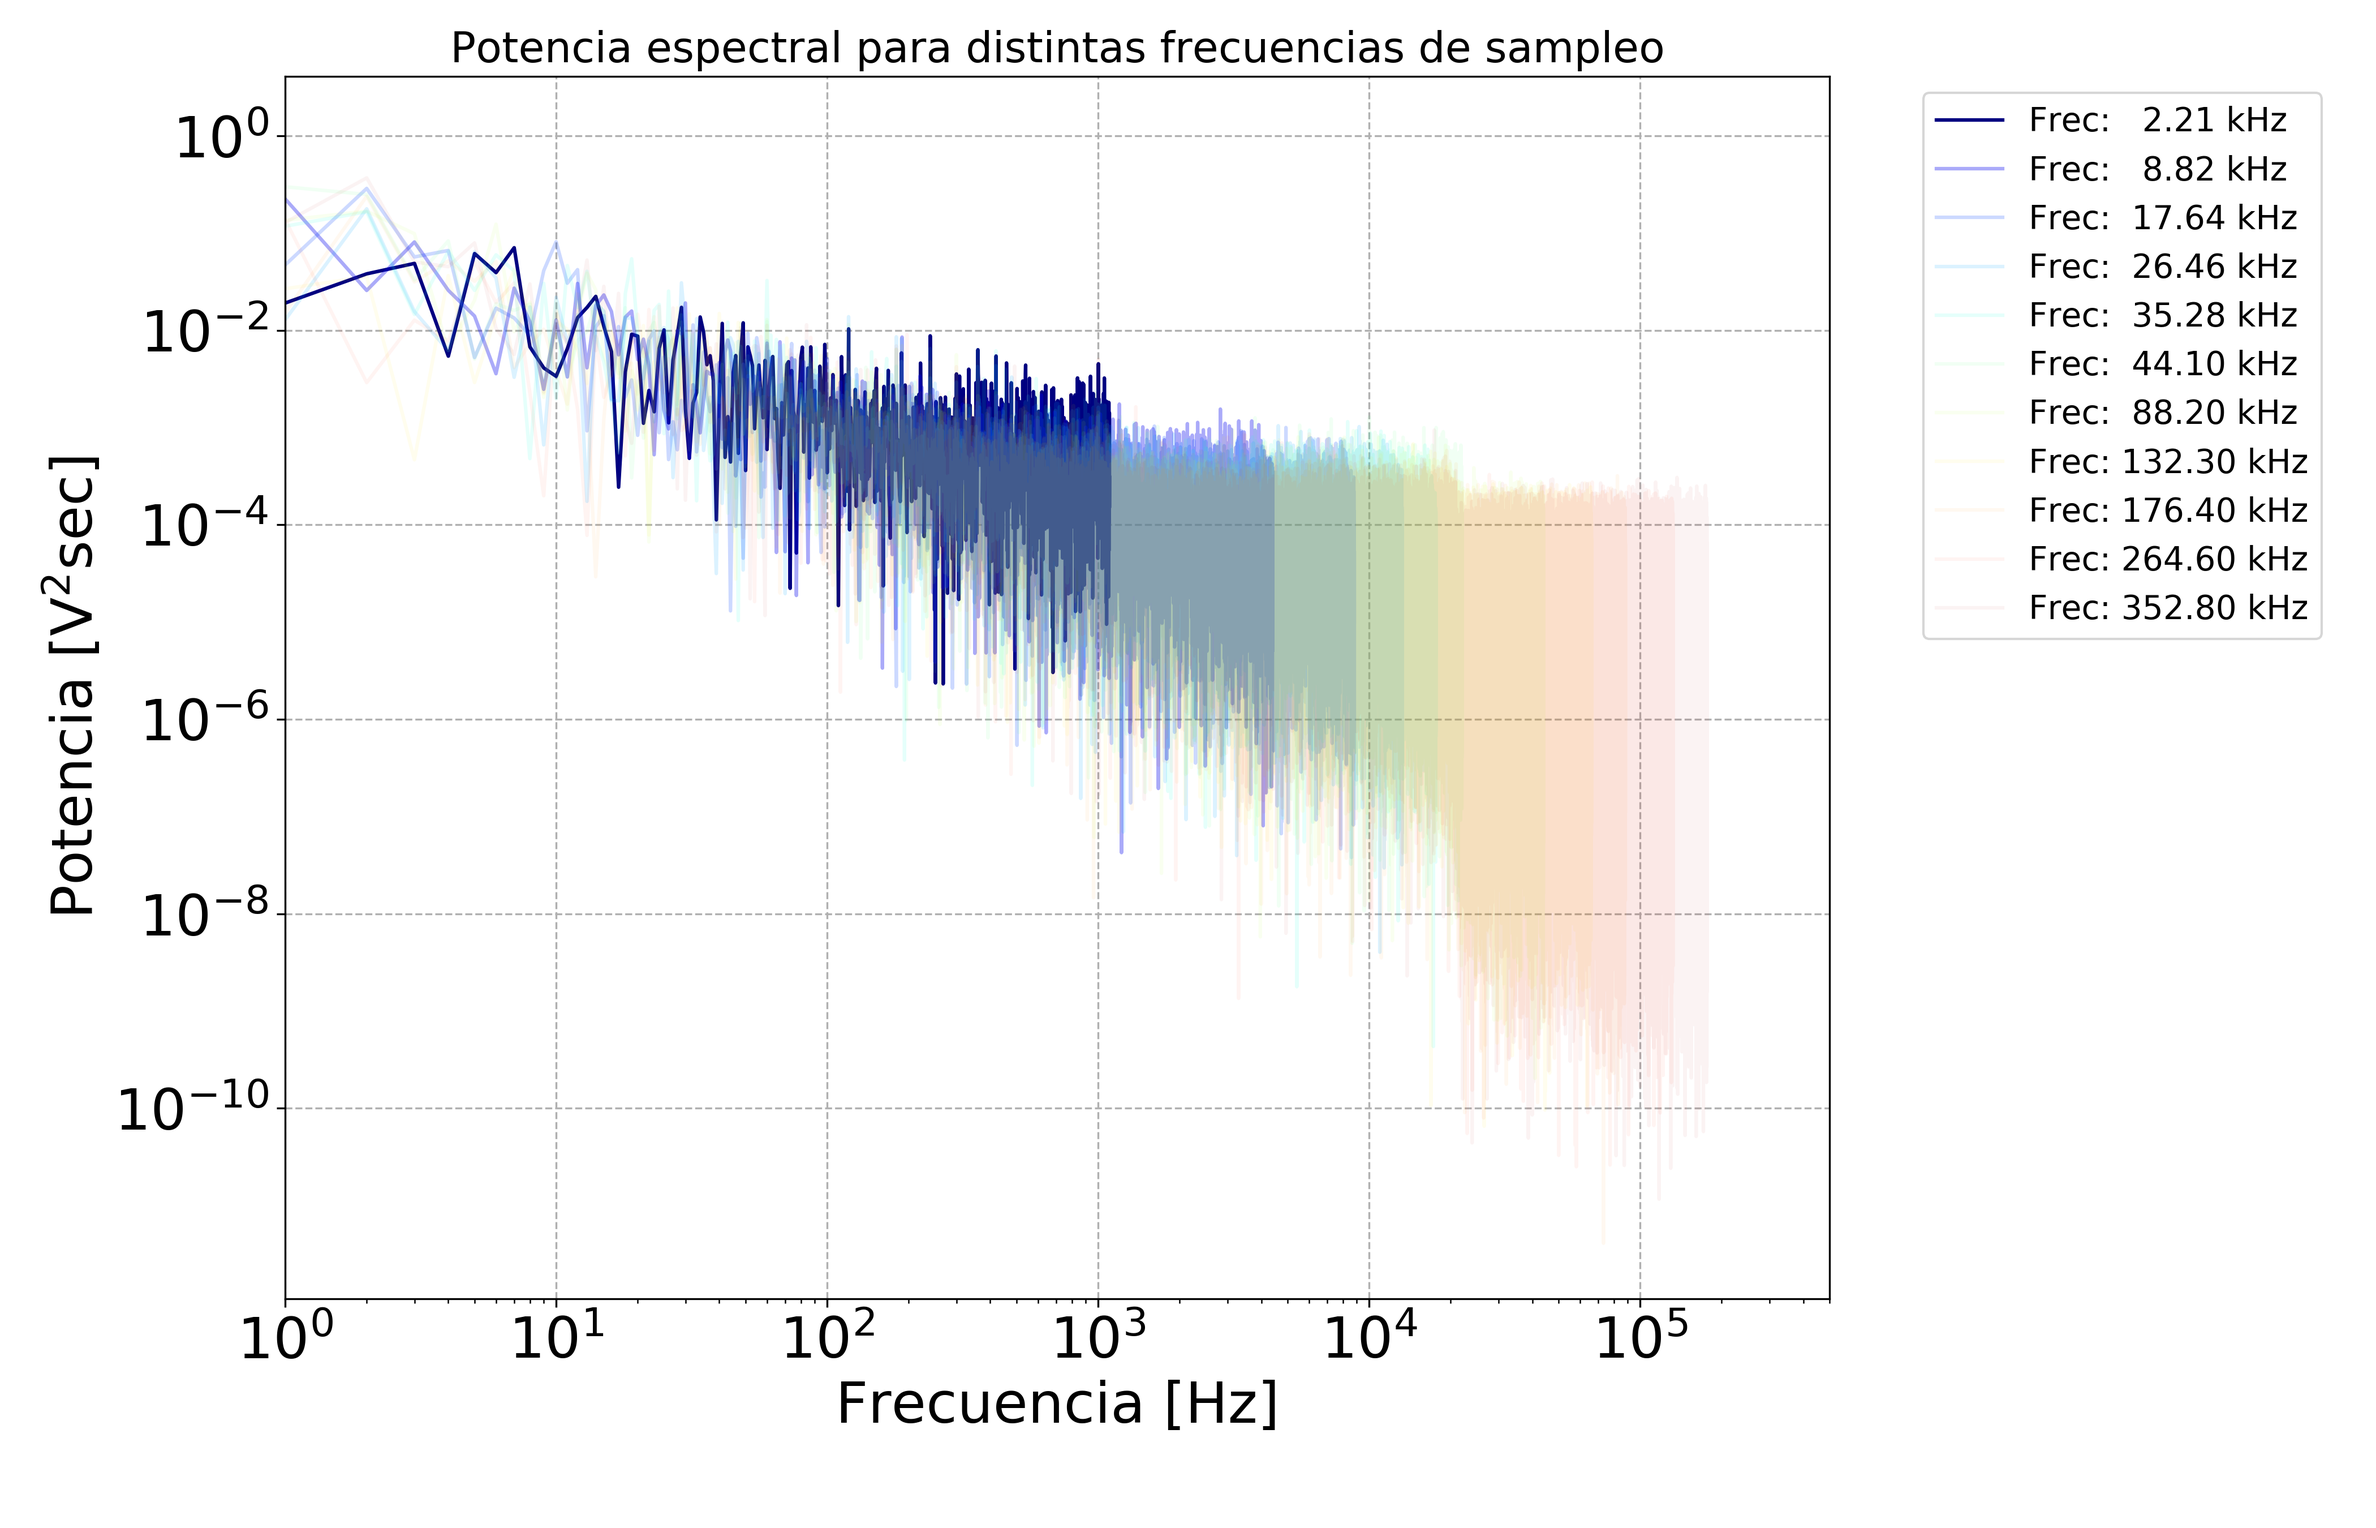
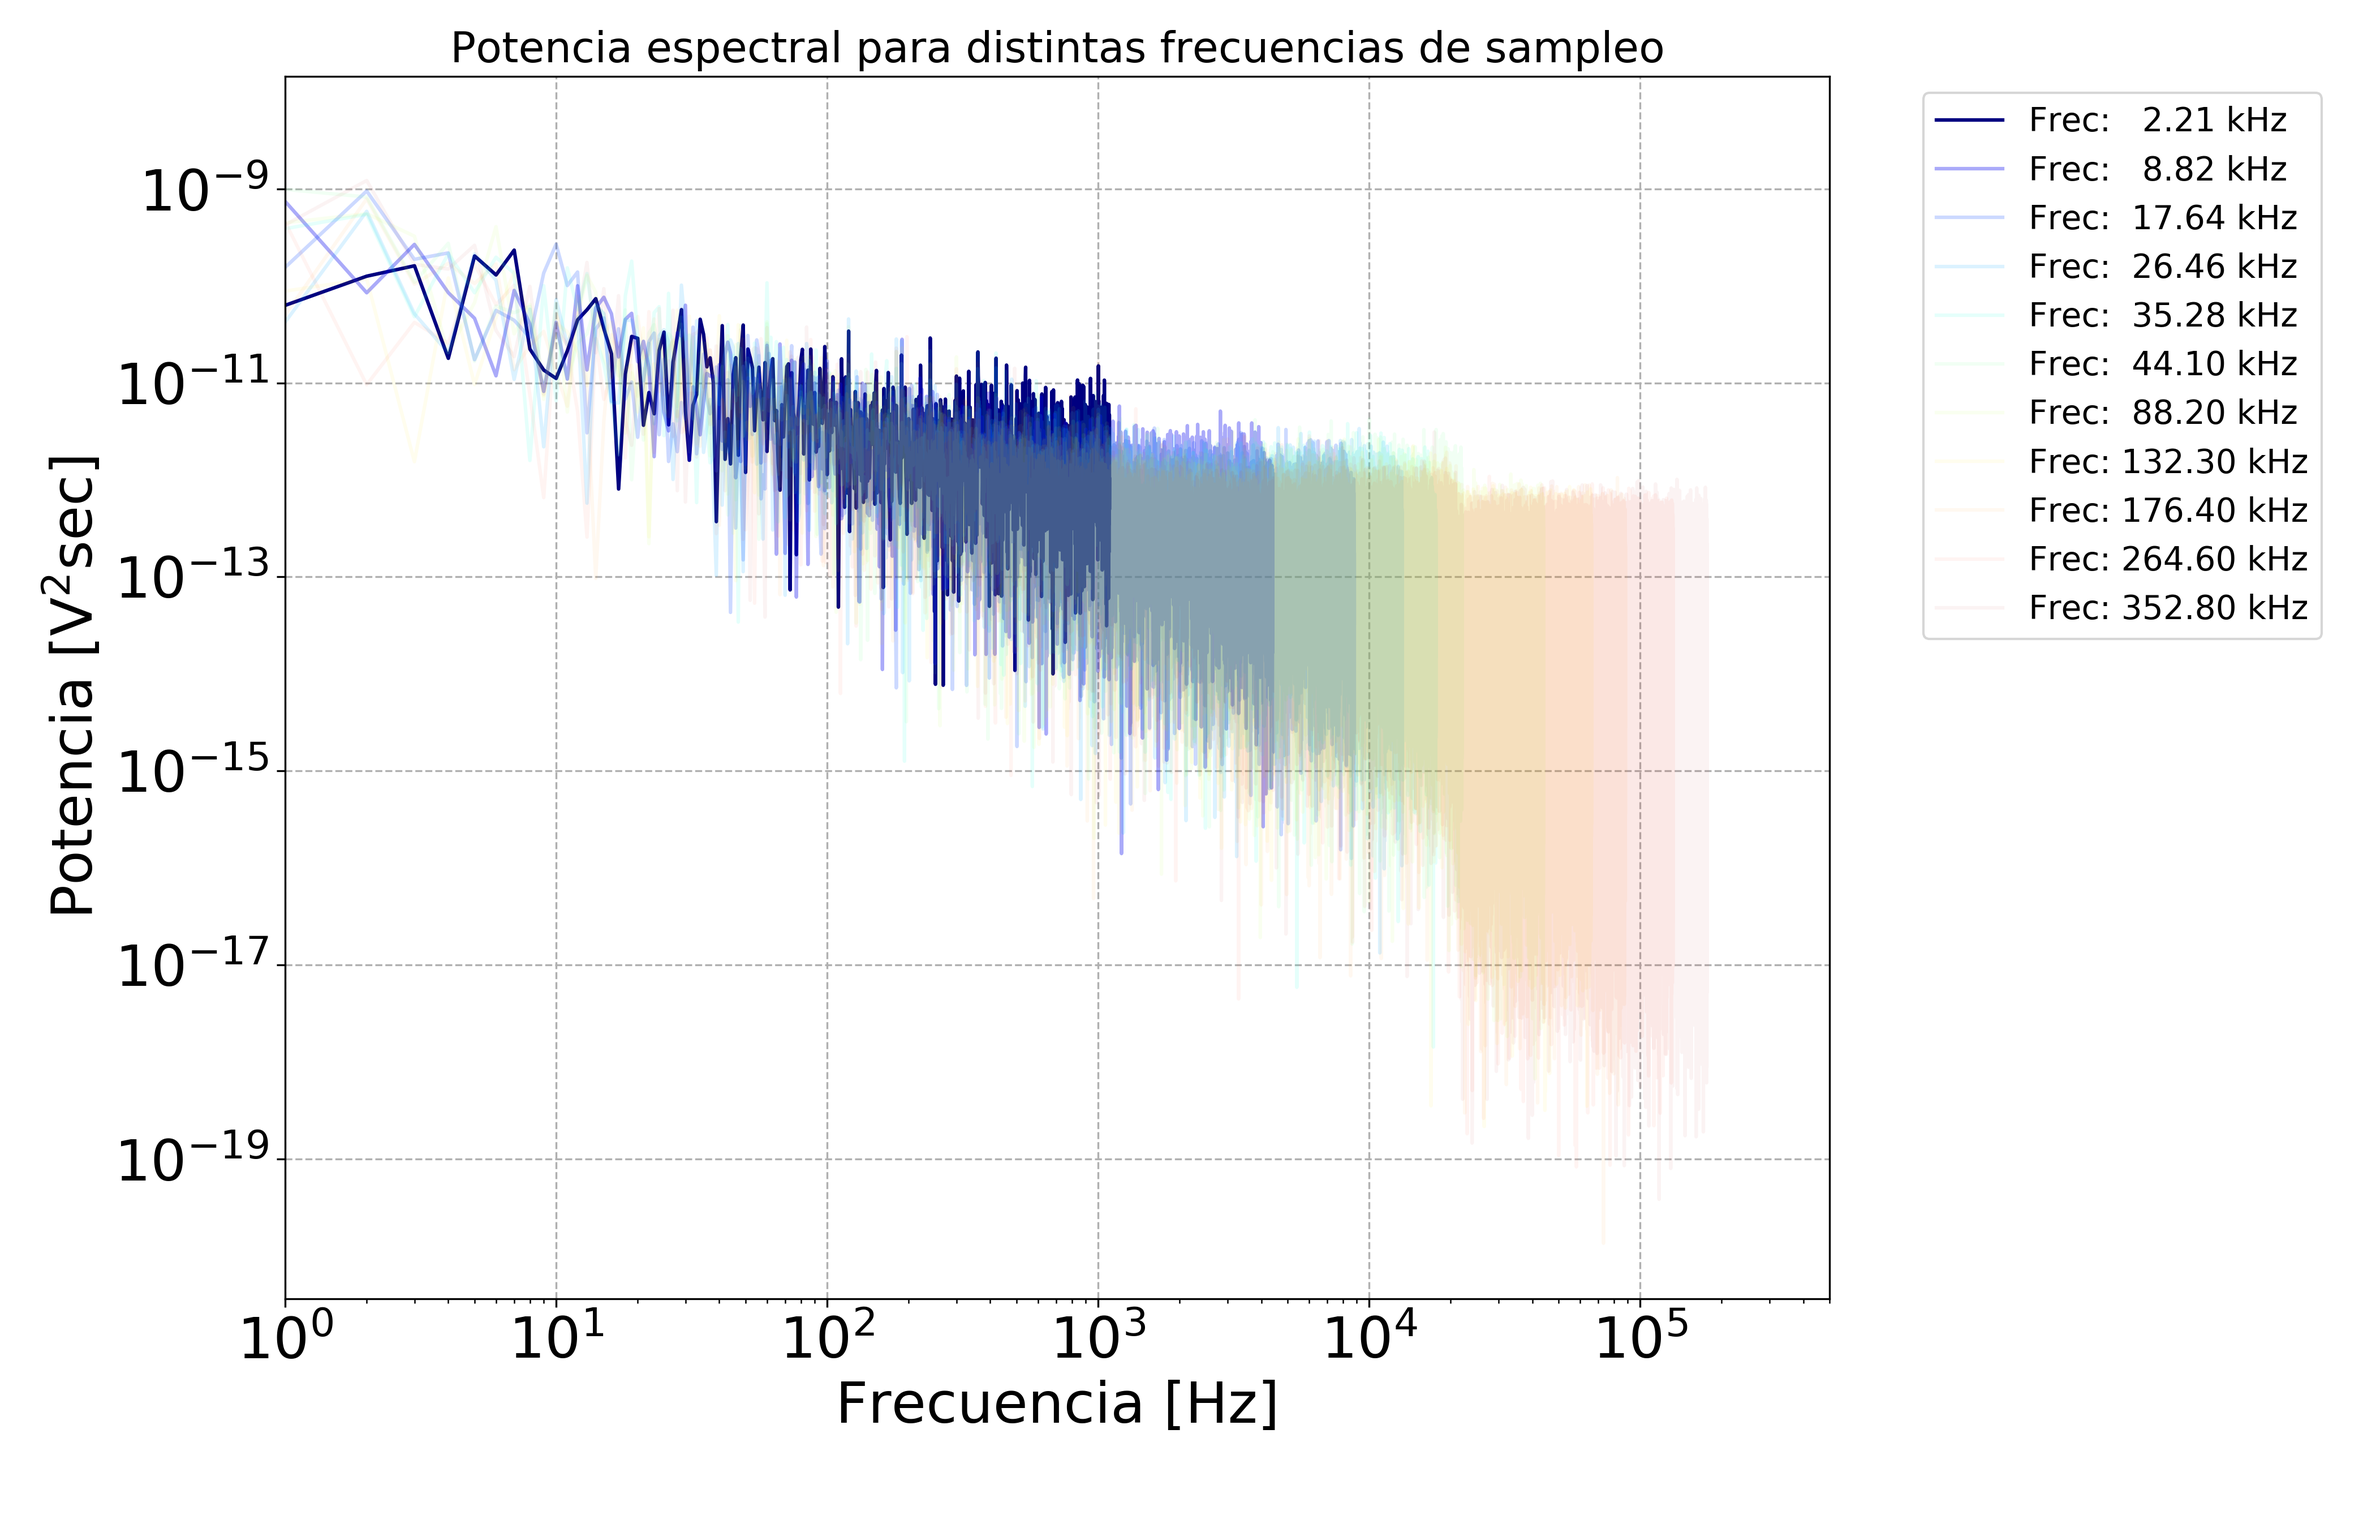
corrijo figuras

diff --git a/P1_ruido.py b/P1_ruido.py
@@ -554,7 +554,12 @@ for i in range(len(factor)):
 #%%
 
 ind_nivel = 6
-mic_level = 70    
+mic_level = 70  
+
+calibracion_CH0_seno = np.load(os.path.join('Calibracion','int16', 'Seno_CH0'+  '_wm'+str(mic_level)+'_'+dato+'_ajuste.npy'))
+calibracion_CH1_seno = np.load(os.path.join('Calibracion','int16', 'Seno_CH1'+   '_wm'+str(mic_level)+'_'+dato+'_ajuste.npy'))
+
+
 
 dato = 'int16'    
 fs_base = 44100  
@@ -593,6 +598,11 @@ for i in range(0,len(factor),2):
     
     data_out = np.load(os.path.join(carpeta_salida,subcarpeta_salida, 'data_out_'+str(i)+'.npy'))
     data_in = np.load(os.path.join(carpeta_salida,subcarpeta_salida, 'data_in_'+str(i)+'.npy'))    
+    
+    # Calibracion de los canales
+    data_in[:,:,0] = (data_in[:,:,0]-calibracion_CH0_seno[1])/(calibracion_CH0_seno[0])
+    data_in[:,:,1] = (data_in[:,:,1]-calibracion_CH1_seno[1])/(calibracion_CH1_seno[0])    
+    
     
     data_in = data_in[:,int(fs*delay):int(fs*(delay+med)),:]  
     std_ch0 = np.append(std_ch0,np.std(data_in[0,:,0]))
